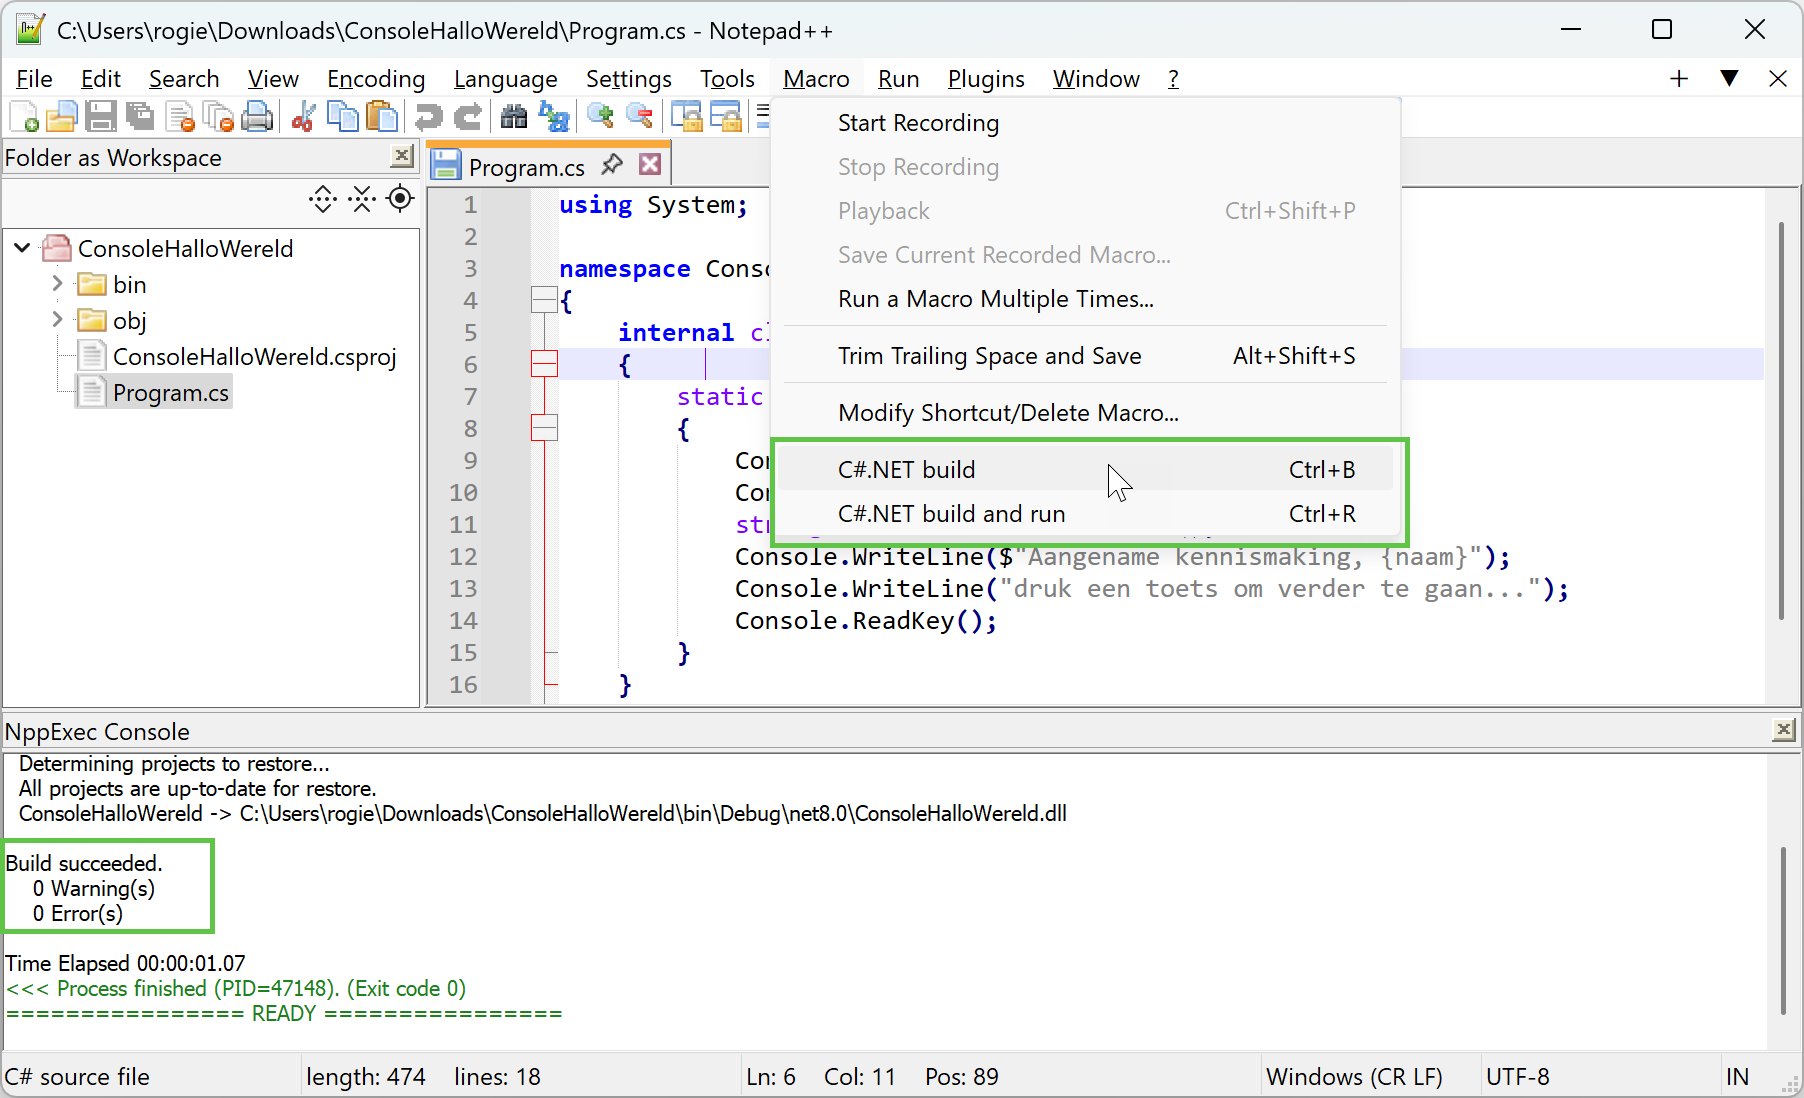
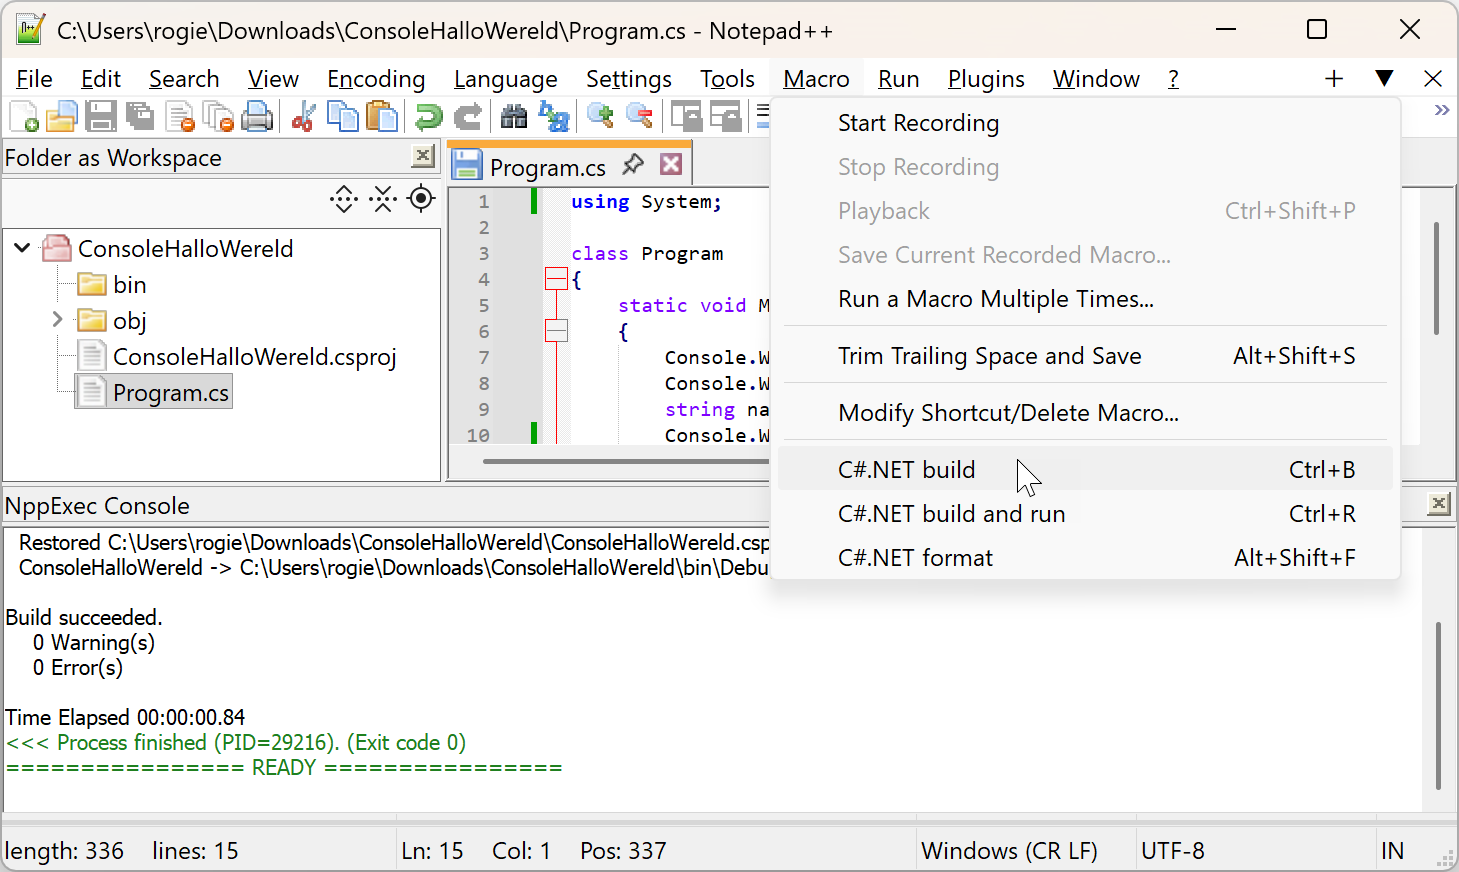
namespace is niet meer vereist

diff --git a/05_npp.html b/05_npp.html
@@ -148,7 +148,7 @@ using System.Collections.Generic;
 
       <h3>Notepad++: de ontwikkelomgeving</h3>
       <p>Dit is het programma waarin we onze code gaan schrijven en uitvoeren. In het volgende deel wordt uitgelegd hoe je het gebruikt. Alvast een screenshot:</p>
-      <img src="img/05_npp/stap2a.png" alt="" class="w-600 bordered">
+      <img src="img/05_npp/stap2a.png" alt="" class="w-800 bordered">
 
       <h2>Stap voor stap</h2>
       <p>
@@ -194,18 +194,14 @@ using System.Collections.Generic;
  */
 using System;
 
-namespace ConsoleNaamVanDeOefening
+class Program
 {
-   class Program
+   static void Main(string[] args)
    {
-      static void Main(string[] args)
-      {
-         // programmacode hier
-         // ...
-      }
+      // programmacode hier
+      // ...
    }
-}
-</code></pre>
+}</code></pre>
 
       <h3>builden</h3>
       <p>
@@ -244,9 +240,9 @@ namespace ConsoleNaamVanDeOefening
       <img src="img/05_npp/kill.png" alt="" class="w-400">
 
       <h3>Notepad++ macro's</h3>
-      <p>In de portable versie van Notepad++ gebruikt in de lessen zijn twee macro's (scripts) toegevoegd die builden en runnen makkelijker maken:</p>
+      <p>In de portable versie van Notepad++ gebruikt in de lessen zijn drie macro's (scripts) toegevoegd die formatteren, builden en runnen makkelijker maken:</p>
       <img src="img/05_npp/macro-build.png" alt="" class="w-600">
-      <p>Je kan dan eenvoudig builden met <strong>Ctrl-B</strong> en builden/runnen met <strong>Ctrl-R</strong>.</p>
+      <p>Je kan dan b.v. eenvoudig builden en runnen met <strong>Ctrl-R</strong>.</p>
       <div class="tips" data-caption="☝🏻 let op">
          <p>
             De macro's werken alleen als het codebestand geopend is in Notepad++! 
@@ -268,7 +264,7 @@ namespace ConsoleNaamVanDeOefening
       <img src="img/05_npp/style-configurator.png" alt="" class="w-400">
       <h3>dark mode</h3>
       <p>Via <strong>Settings, Preferences</strong> kan je dark mode inschakelen:</p>
-      <img src="img/05_npp/dark.png" alt="" class="w-400">
+      <img src="img/05_npp/dark.png" alt="" class="w-600">
       <p>Voor het overige raden we aan niet teveel aan de instellingen te prutsen.</p>
       <h3>shortcuts</h3>
       <p>Algemene shortcuts van elke tekst editor:</p>
